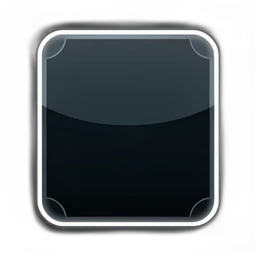
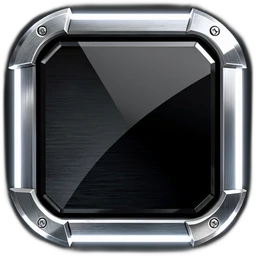
build

diff --git a/index.html b/index.html
@@ -70,7 +70,7 @@
         #rotate { display: flex; }
       }
     </style>
-    <script type="module" crossorigin src="./assets/index-CKml_uN4.js"></script>
+    <script type="module" crossorigin src="./assets/index-DT05Xaj8.js"></script>
     <link rel="modulepreload" crossorigin href="./assets/phaser-CaWnzXme.js">
   </head>
   <body>